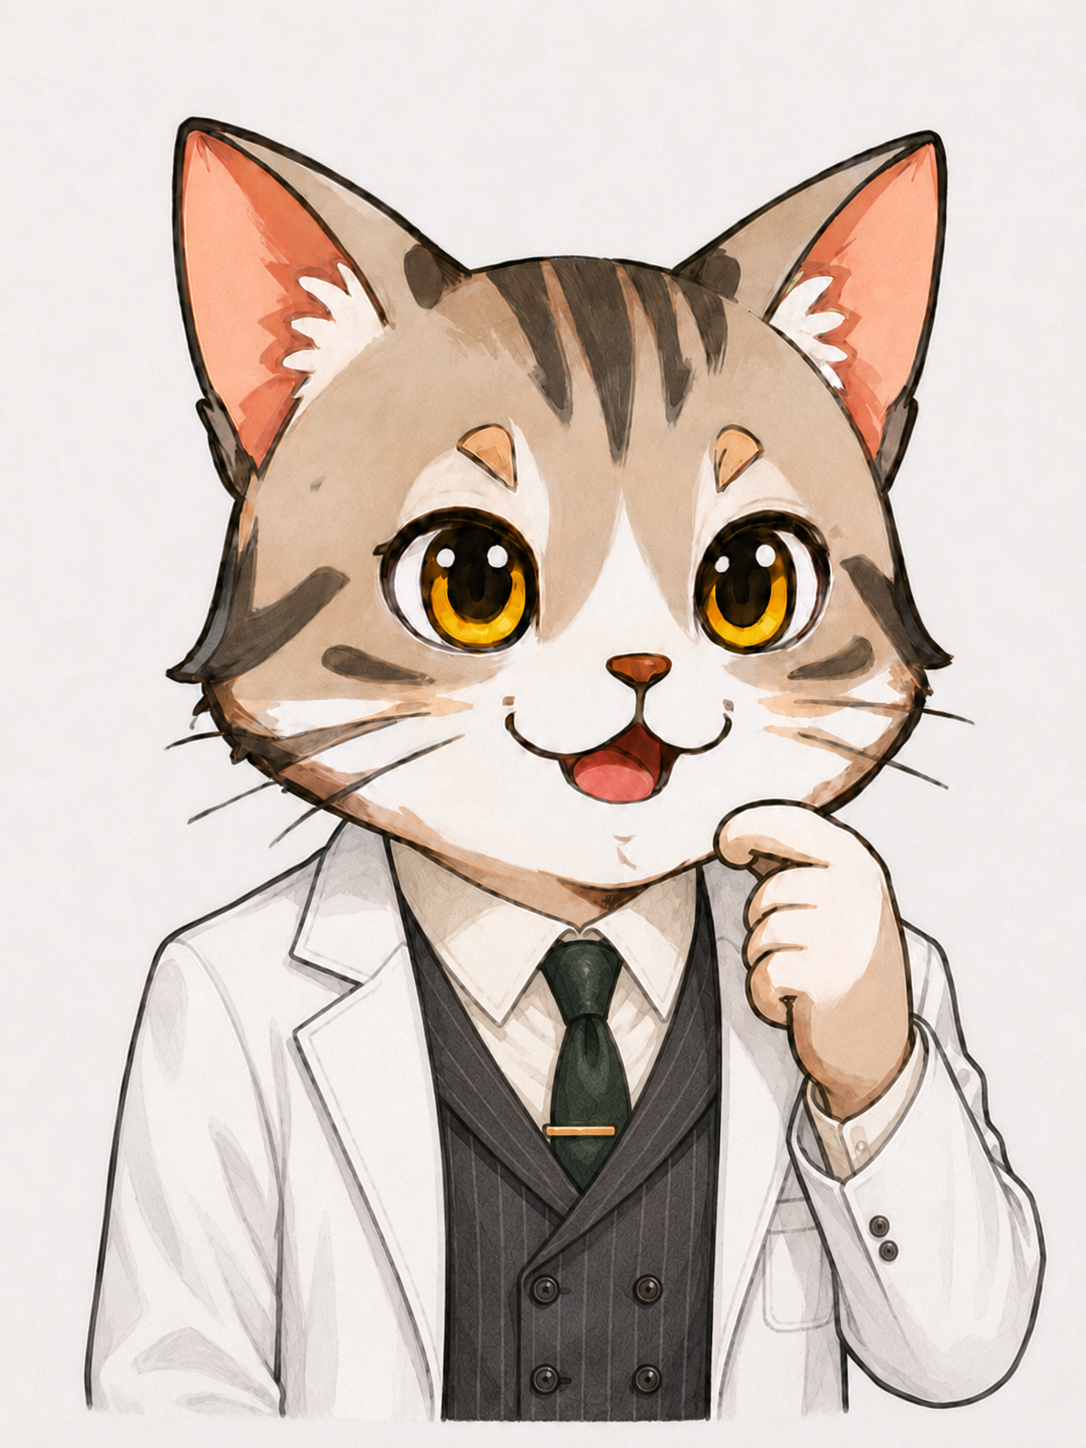
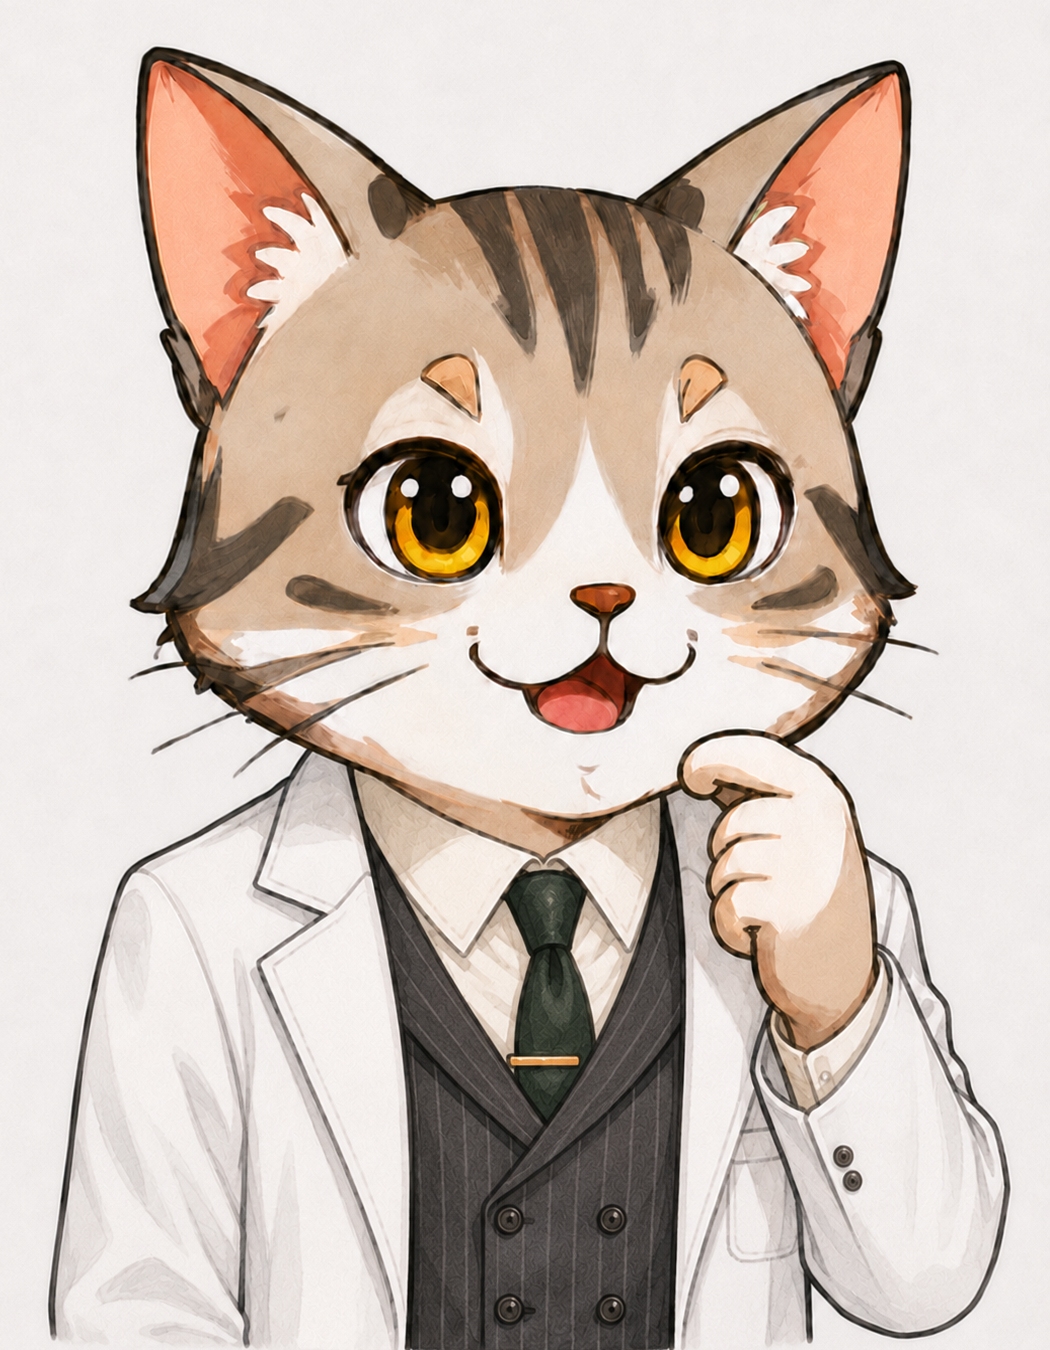
feat: 博士・うさ美のキャラクターアイコンを新しいイラストに差し替え
cat.png/catThink.png/rabbit.png/rabbitThink.pngを1050x1350（7:9比）で統一された新しいイラストに更新。design-system.cssのdialog-avatarの枠サイズをこの比率に合わせて調整し、余白や欠けが出ないようにした。あわせてアイコン全体のサイズも一回り拡大。

diff --git a/design-system.css b/design-system.css
@@ -125,12 +125,12 @@ a.head-reset{text-decoration:none;display:inline-flex;align-items:center}
    画像を使う場合は中に <img> を入れる（object-fit:contain）。
    ========================================================== */
 .dialogue-scene{display:flex;flex-direction:column;gap:8px;margin:14px 0 16px}
-.dialog-row{display:grid;grid-template-columns:96px minmax(0,1fr);gap:12px;align-items:stretch;border:1px solid var(--line);background:var(--paper2);border-radius:10px;padding:10px 12px;box-shadow:0 2px 0 rgba(0,0,0,.04)}
-.dialog-row.right{grid-template-columns:minmax(0,1fr) 96px}
+.dialog-row{display:grid;grid-template-columns:88px minmax(0,1fr);gap:12px;align-items:stretch;border:1px solid var(--line);background:var(--paper2);border-radius:10px;padding:10px 12px;box-shadow:0 2px 0 rgba(0,0,0,.04)}
+.dialog-row.right{grid-template-columns:minmax(0,1fr) 88px}
 .dialog-row.right .dialog-character{order:2}
 .dialog-row.right .dialog-bubble{order:1}
 .dialog-character{display:flex;flex-direction:column;align-items:center;justify-content:center;gap:0;min-width:0}
-.dialog-avatar{position:relative;z-index:1;width:84px;height:84px;border-radius:10px;display:flex;align-items:center;justify-content:center;font-size:30px;box-shadow:0 3px 6px rgba(0,0,0,.18);flex-shrink:0;overflow:hidden}
+.dialog-avatar{position:relative;z-index:1;width:75px;height:96px;border-radius:10px;display:flex;align-items:center;justify-content:center;font-size:34px;box-shadow:0 3px 6px rgba(0,0,0,.18);flex-shrink:0;overflow:hidden}
 .dialog-avatar.mentor{background:linear-gradient(#fde3d6,#f7c2a4)}
 .dialog-avatar.student{background:linear-gradient(#dcefe9,#b9dcd0)}
 .dialog-avatar img{width:100%;height:100%;object-fit:contain}
@@ -143,10 +143,10 @@ a.head-reset{text-decoration:none;display:inline-flex;align-items:center}
 .dialog-row.right .dialog-bubble::before{left:auto;right:-10px;border-right:0;border-left:10px solid var(--line)}
 .dialog-row.right .dialog-bubble::after{left:auto;right:-8px;border-right:0;border-left:9px solid var(--paper)}
 @media (max-width:700px){
-  .dialog-row,.dialog-row.right{grid-template-columns:74px minmax(0,1fr);padding:8px;gap:8px}
+  .dialog-row,.dialog-row.right{grid-template-columns:70px minmax(0,1fr);padding:8px;gap:8px}
   .dialog-row.right .dialog-character{order:0}
   .dialog-row.right .dialog-bubble{order:1}
-  .dialog-avatar{width:66px;height:66px;font-size:24px}
+  .dialog-avatar{width:59px;height:76px;font-size:27px}
   .dialog-name{font-size:9.5px;padding:3px 7px;margin-top:-11px}
   .dialog-bubble{font-size:13px;padding:9px 11px;min-height:0}
   .dialog-row.right .dialog-bubble::before{left:-10px;right:auto;border-left:0;border-right:10px solid var(--line)}
